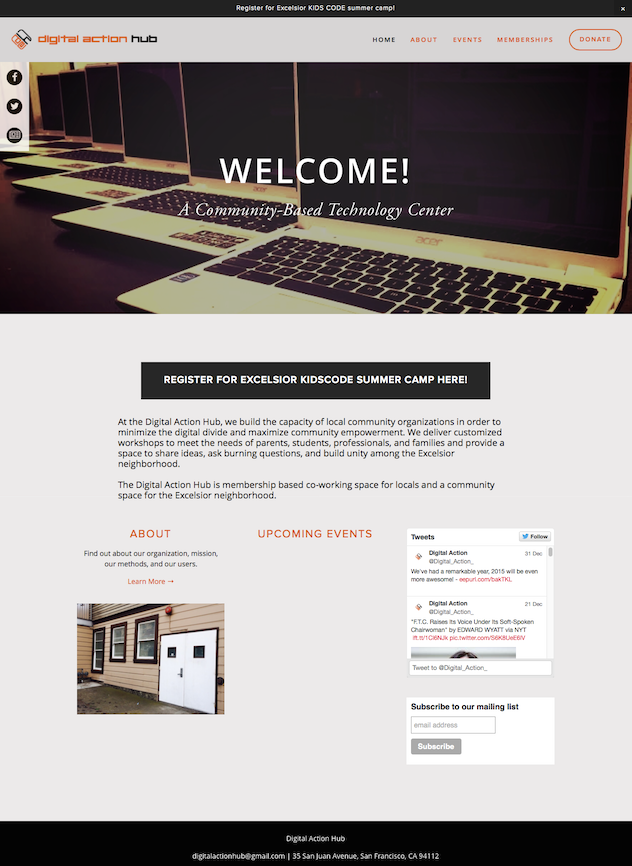
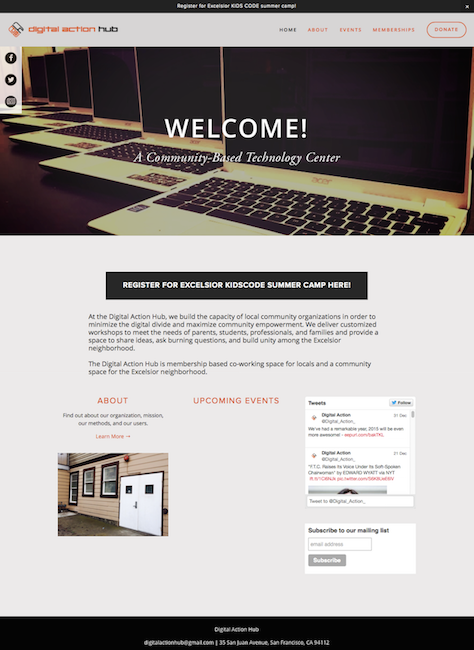
Adjusting the images size for easier read

diff --git a/README.md b/README.md
@@ -13,6 +13,7 @@ Code injection was used for the following reasons:
 Here are the final production. The Event section is empty because there are no upcoming events at the time: 
 
 Desktop View:
-![Desktop View](https://github.com/amychan331/schoolProject-Squarespace/blob/master/images/desktopView.png)
+<img src="https://github.com/amychan331/schoolProject-Squarespace/blob/master/images/desktopView.png" alt="Desktop View" style="width: 474px; height: 650px;" />
+
 Mobile View:
-![Mobile View](https://github.com/amychan331/schoolProject-Squarespace/blob/master/images/mobileView.png)
+<img src="https://github.com/amychan331/schoolProject-Squarespace/blob/master/images/mobileView.png" alt="Mobile View" style="width: 320px; height: 2174px;" />
